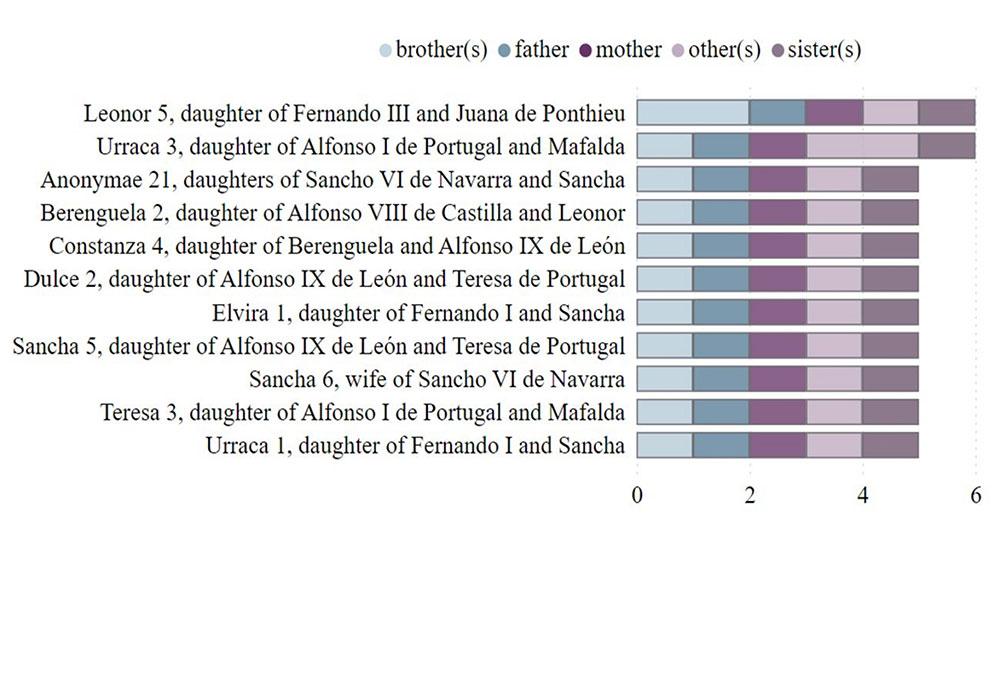
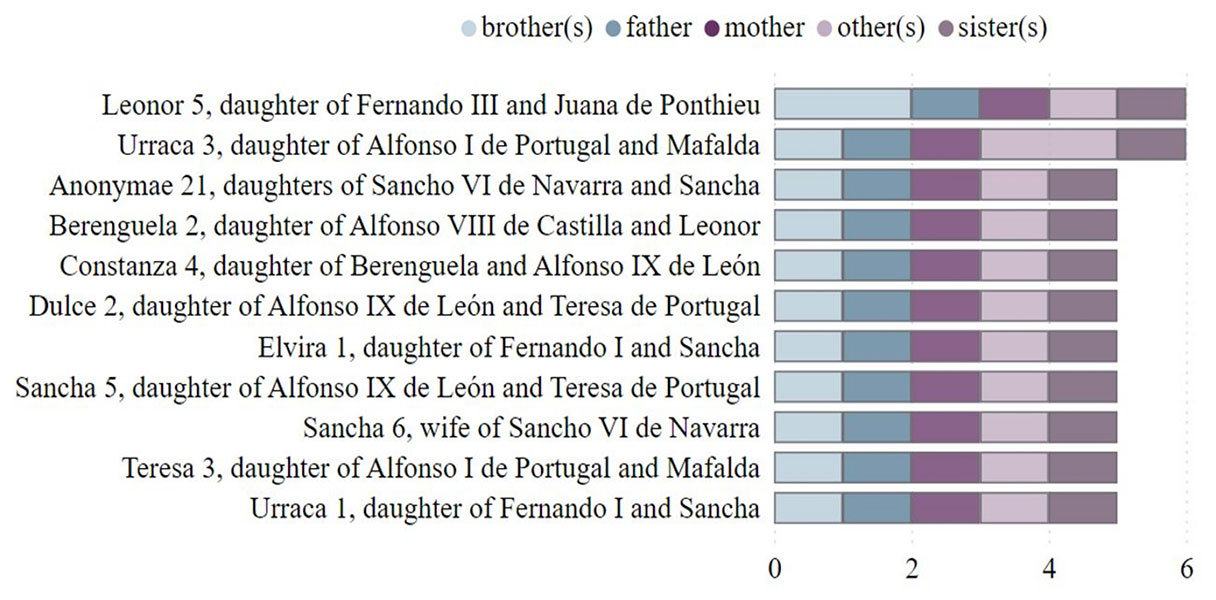
Miki-30-4-2025

diff --git a/femiber/templates/charts.html b/femiber/templates/charts.html
@@ -12,26 +12,27 @@
         <div class="row">
             <div class="col-md-12">
                 <div class="row mb-5">
-                    <div class="col-md-4">
-                        <img src="{{ url_for('static', filename='img/Figure-1-Distribution-of-PersonIDs-in-each-reign.jpg') }}" alt="" class="img-fluid pt-4 cursor-pointer">
-                        <p class="text-center">Distribution of PersonIDs in each reign</p>
+                    <div class="col-md-6">
+                        <img src="{{ url_for('static', filename='img/Figure-1-Distribution-of-PersonIDs-in-each-reign.jpg') }}" alt="" class="img-fluid pt-4 cursor-pointer bordered-img">
+                        <p class="text-center">Figure 1 - Distribution of PersonIDs in each reign</p>
                     </div>
-                    <div class="col-md-4">
-                        <img src="{{ url_for('static', filename='img/Figure-2-Distribution-of-kinship-values-by-Standard-Name.jpg') }}" alt="" class="img-fluid pt-4 cursor-pointer">
-                        <p class="text-center">Distribution of kinship values by Standard Name</p>
+                    <div class="col-md-6">
+                        <img src="{{ url_for('static', filename='img/Figure-2-Distribution-of-kinship-values-by-Standard-Name.jpg') }}" alt="" class="img-fluid pt-4 cursor-pointer bordered-img">
+                        <p class="text-center">Figure 2 - Distribution of kinship values by Standard Name</p>
                     </div>
-                    <div class="col-md-4">
-                        <img src="{{ url_for('static', filename='img/Figure-3-Frequency-of-kinship-values.jpg') }}" alt="" class="img-fluid pt-4 cursor-pointer">
-                        <p class="text-center">Frequency of kinship values</p>
+                    <div class="col-md-3"></div>
+                    <div class="col-md-6">
+                        <img src="{{ url_for('static', filename='img/Figure-3-Frequency-of-kinship-values.jpg') }}" alt="" class="img-fluid pt-4 cursor-pointer bordered-img">
+                        <p class="text-center">Figure 3 - Frequency of kinship values</p>
                     </div>
-                    <div class="col-md-2"></div>
-                    <div class="col-md-4">
-                        <img src="{{ url_for('static', filename='img/Figure-4-Number-of-PersonIDs-with-explicitly-expressed-religion.jpg') }}" alt="" class="img-fluid pt-4 cursor-pointer">
-                        <p class="text-center">Number of PersonIDs with explicitly expressed religion</p>
+                    <div class="col-md-3"></div>
+                    <div class="col-md-6">
+                        <img src="{{ url_for('static', filename='img/Figure-4-Number-of-PersonIDs-with-explicitly-expressed-religion.jpg') }}" alt="" class="img-fluid pt-4 cursor-pointer bordered-img">
+                        <p class="text-center">Figure 4 - Number of PersonIDs with explicitly expressed religion</p>
                     </div>
-                    <div class="col-md-4">
-                        <img src="{{ url_for('static', filename='img/Figure-5-Percentage-of-Religion-Flag-values.jpg') }}" alt="" class="img-fluid pt-4 cursor-pointer">
-                        <p class="text-center">Percentage of Religion Flag values</p>
+                    <div class="col-md-6">
+                        <img src="{{ url_for('static', filename='img/Figure-5-Percentage-of-Religion-Flag-values.jpg') }}" alt="" class="img-fluid pt-4 cursor-pointer bordered-img">
+                        <p class="text-center">Figure 5 - Percentage of Religion Flag values</p>
                     </div>
                 </div>
                 <p>

diff --git a/femiber/static/femiber.css b/femiber/static/femiber.css
@@ -119,7 +119,9 @@ input[type=checkbox]:checked + .custom-checkbox::after { display: block; }
 
 .lightbox { display: none; position: fixed; z-index: 1050; left: 0; top: 0; width: 100%; height: 100%; overflow: auto; background-color: rgba(0,0,0,0.8); align-items: center; 
     justify-content: center; }
-.lightbox img { max-width: 90%; max-height: 80%; box-shadow: 0 0 20px white; }
+.lightbox img { max-width: 90%; max-height: 80%; }
+.bordered-img { border: 1px solid #ddd; transition: all ease 0.3s; }
+.bordered-img:hover { box-shadow: 0 0 20px #ccc; }
 
 /* dodao Mhas */
 /* dodao Mhas */
